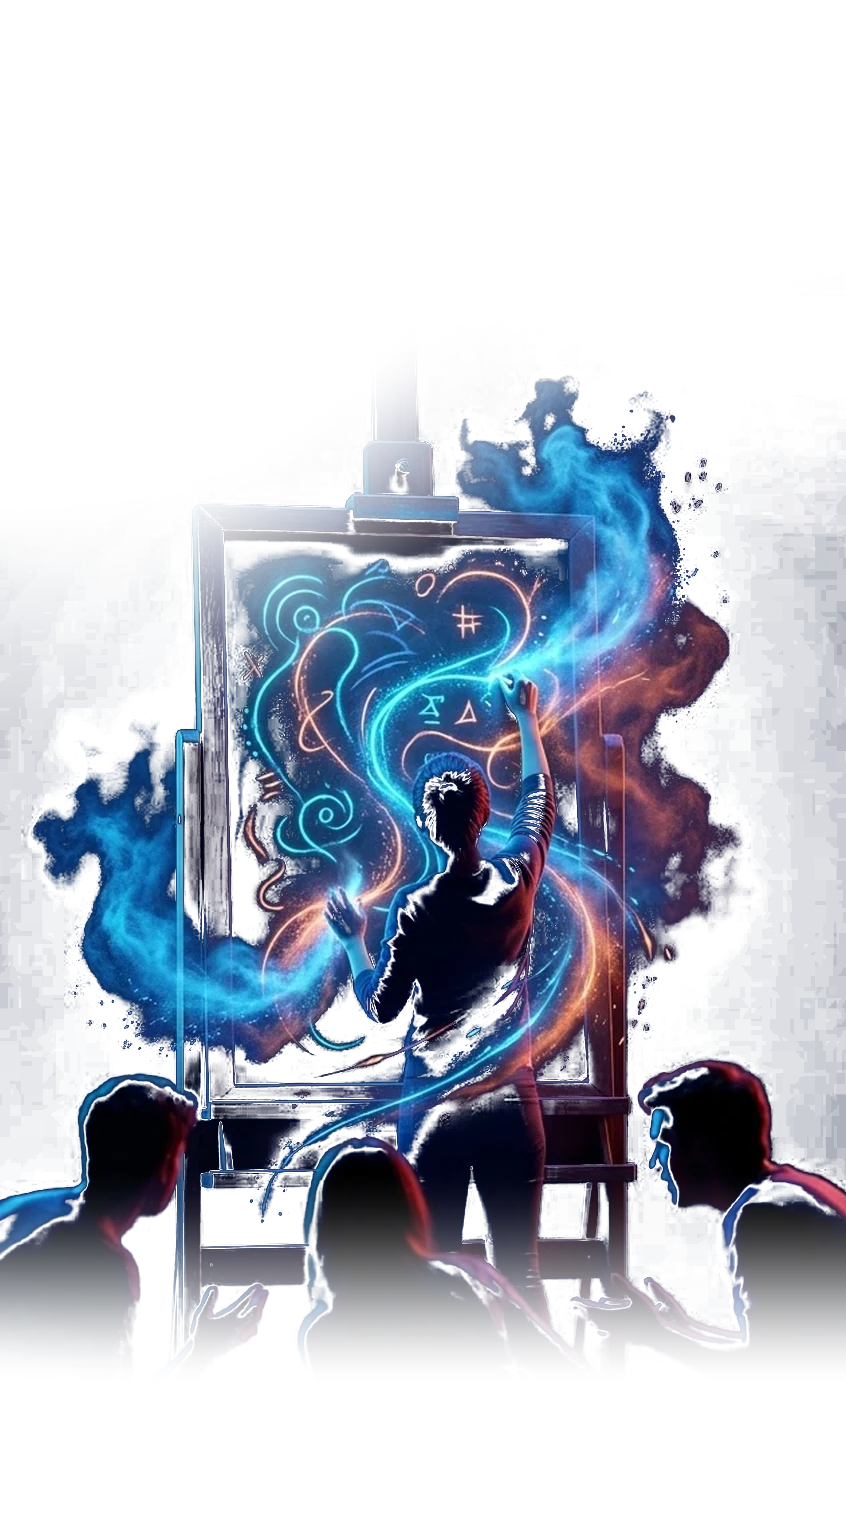
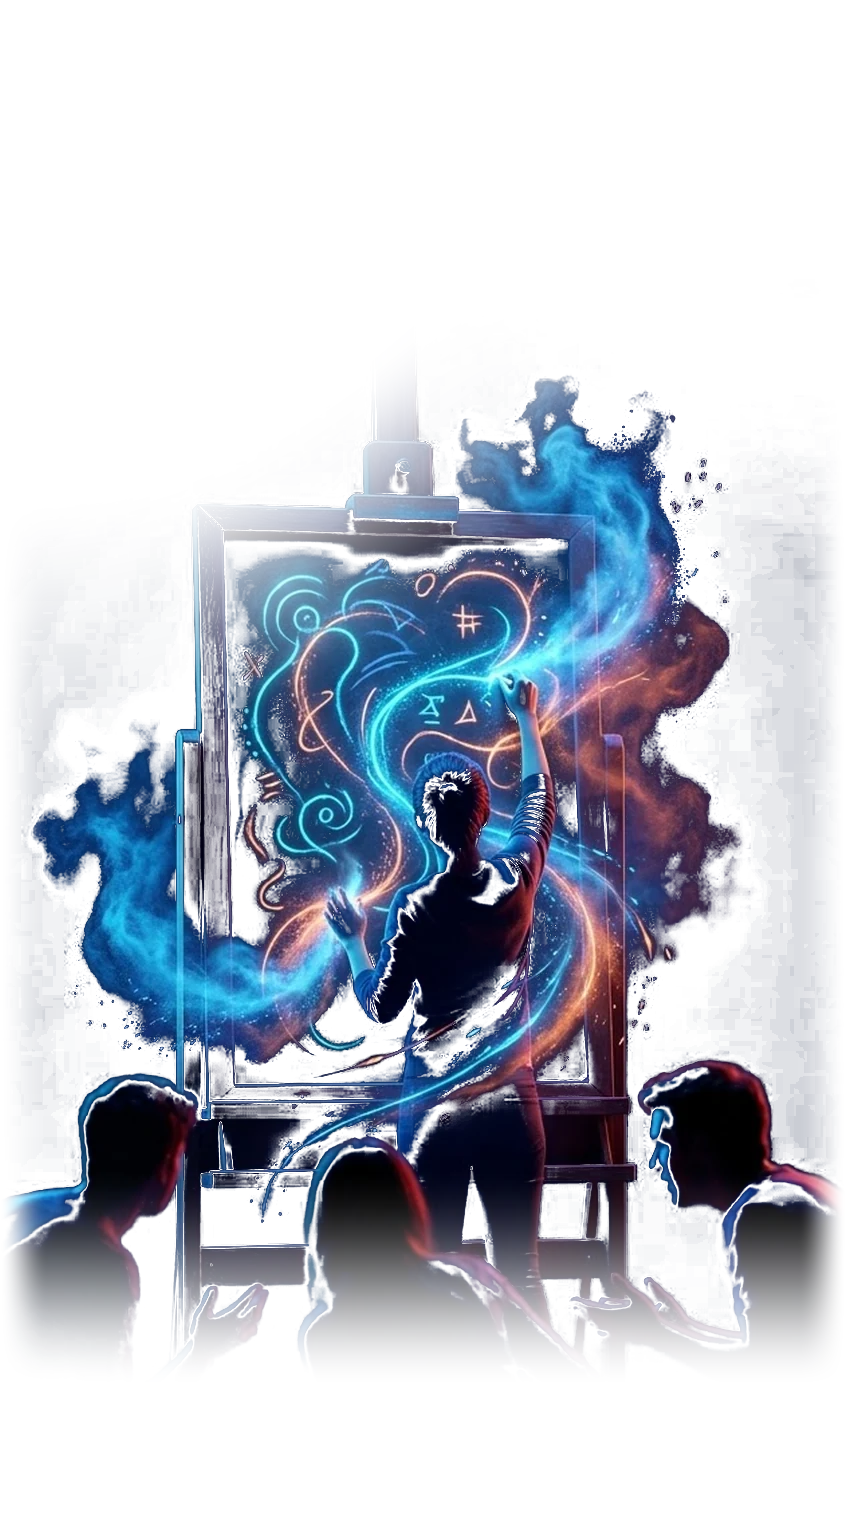
Games page: planet arc removed, clearer swipe dots in its place, game counter back above the title in cyan, art fades at the screen sides
Claude-Session: https://claude.ai/code/session_01M4sLZWacZ2VAGJ6zF5AGeE

Changed region(s): [[0.9527, 0.3084, 1.0, 0.8944], [0.0, 0.4009, 0.0307, 0.6785], [0.0, 0.771, 0.0615, 0.8944]]

diff --git a/src/features/games/GamesScreen.tsx b/src/features/games/GamesScreen.tsx
@@ -1,16 +1,13 @@
 import { useCallback, useState } from 'react';
-import { Platform, StyleSheet, View } from 'react-native';
+import { StyleSheet, View } from 'react-native';
 import { Gesture, GestureDetector } from 'react-native-gesture-handler';
 import { cancelAnimation, Easing, useSharedValue, withTiming } from 'react-native-reanimated';
 import { scheduleOnRN } from 'react-native-worklets';
-import { useSafeAreaInsets } from 'react-native-safe-area-context';
 
-import { HEADER_H } from '@/components/Header';
 import { Screen } from '@/components/Screen';
 import { GAMES } from '@/data/games';
 import { GamePage } from './GamePage';
-import { Dots, Ring } from './Ring';
-import { Planet, wrapOff } from './Planet';
+import { Dots, wrapOff } from './Dots';
 import { ChestButton } from '@/features/chests/ChestButton';
 import { RoundsButton } from '@/features/rounds/Ribbon';
 import { useTheme } from '@/state/app';
@@ -22,12 +19,9 @@ const N = GAMES.length;
 const mod = (v: number) => ((v % N) + N) % N;
 const EASE = Easing.bezier(0.3, 0.7, 0.2, 1);
 
-/** Locked Games page (decision 63): swipe through the games; the planet ring and dots follow. */
+/** Locked Games page (decision 63): swipe through the games; the dots follow. */
 export function GamesScreen() {
   const t = useTheme();
-  const ins = useSafeAreaInsets();
-  // The horizon is drawn under the header and dock (as in the prototype, where the dock covers it).
-  const bodyTop = (Platform.OS === 'web' ? u(30) : ins.top) + HEADER_H;
   const pos = useSharedValue(0); // unbounded page position; game = pos mod N
   const start = useSharedValue(0);
   const [sel, setSel] = useState(0);
@@ -70,17 +64,14 @@ export function GamesScreen() {
     });
 
   return (
-    <Screen tab="games" glow={0} under={<Ring mode={t.mode} top={bodyTop - lift} />}>
+    <Screen tab="games" glow={0}>
       <GestureDetector gesture={pan}>
         <View style={s.fill} onLayout={(e) => setLift(Math.round(u(FILL_H) - e.nativeEvent.layout.height))}>
           {/* the shown game and two on each side are mounted, so the next page's art is already decoded when a swipe
               lands (2026-10-19, was one each side: building it as the slide ended froze the page) */}
           {GAMES.map((g, j) => (Math.abs(wrapOff(j - sel)) <= 2 ? <GamePage key={g.key} game={g} j={j} pos={pos} active={j === sel} lift={lift} /> : null))}
           <View style={[StyleSheet.absoluteFill, { transform: [{ translateY: -lift }] }]} pointerEvents="box-none">
-            <Dots pos={pos} onPick={jump} />
-            {GAMES.map((g, j) => (
-              <Planet key={g.key} k={g.key} j={j} pos={pos} sel={sel} mode={t.mode} onPress={() => jump(j)} />
-            ))}
+            <Dots pos={pos} onPick={jump} accent={t.accent} />
           </View>
           <ChestButton />
           <RoundsButton />

diff --git a/src/features/games/GamePage.tsx b/src/features/games/GamePage.tsx
@@ -4,7 +4,7 @@ import { Pressable, StyleSheet, View } from 'react-native';
 import { Text } from '@/components/AppText';
 import Animated, { type SharedValue, useAnimatedStyle } from 'react-native-reanimated';
 
-import type { Game } from '@/data/games';
+import { type Game, GAMES } from '@/data/games';
 import { useLoading } from '@/features/loading/store';
 import { useTheme } from '@/state/app';
 import { u } from '@/theme/scale';
@@ -13,7 +13,7 @@ import { sfx } from '@/lib/sound';
 
 import { W } from './fit';
 import { GameArt } from './GameArt';
-import { wrapOff } from './Planet';
+import { wrapOff } from './Dots';
 
 const DESC = { dark: '#c9cde8' };
 /** Cards whose art reaches up beside the text get a narrower description. */
@@ -37,6 +37,7 @@ export function GamePage({ game, j, pos, active, lift }: { game: Game; j: number
     <Animated.View style={[StyleSheet.absoluteFill, slide]} pointerEvents={active ? 'box-none' : 'none'} accessibilityElementsHidden={!active} importantForAccessibility={active ? 'auto' : 'no-hide-descendants'}>
       <GameArt k={game.key} mode={t.mode} lift={lift} />
       <View style={s.info}>
+        <Text style={[s.kick, { color: t.accent }]}>{`${String(j + 1).padStart(2, '0')} / ${String(GAMES.length).padStart(2, '0')}`}</Text>
         <Text style={[s.ttl, { color: t.white }]}>
           {game.lead} <Text style={{ color: t.accent, fontFamily: F.displayItalic }}>{game.em}</Text>
         </Text>
@@ -56,8 +57,10 @@ export function GamePage({ game, j, pos, active, lift }: { game: Game; j: number
 }
 
 const s = StyleSheet.create({
-  info: { position: 'absolute', left: u(16), right: u(16), top: u(36) },
+  info: { position: 'absolute', left: u(16), right: u(16), top: u(22) },
   // the title wraps before the Grand Rounds and chest buttons on the right (2026-10-19)
+  // the game counter is back above the title, in the title's cyan (2026-10-19)
+  kick: { marginBottom: u(6), fontFamily: F.display, fontSize: u(11), lineHeight: u(13), letterSpacing: u(1.2) },
   ttl: { maxWidth: u(W - 32 - 35), fontFamily: F.display, fontSize: u(32), lineHeight: u(28.8), letterSpacing: u(-0.64) },
   sub: { marginTop: u(8), fontFamily: F.displayItalic, fontSize: u(13), lineHeight: u(17) },
   desc: { marginTop: u(7), marginBottom: u(2), maxWidth: u(190), fontFamily: F.body, fontSize: u(11), lineHeight: u(15.95) },

diff --git a/src/features/games/Dots.tsx b/src/features/games/Dots.tsx
@@ -1,0 +1,44 @@
+import { Pressable, StyleSheet, View } from 'react-native';
+import Animated, { type SharedValue, useAnimatedStyle } from 'react-native-reanimated';
+
+import { GAMES } from '@/data/games';
+import { u } from '@/theme/scale';
+
+import { DOTS_Y } from './fit';
+
+const N = GAMES.length;
+const HALF = N / 2;
+
+/** Wrap a page offset into [-N/2, N/2), so the games loop round. */
+export function wrapOff(v: number) {
+  'worklet';
+  return ((((v + HALF) % N) + N) % N) - HALF;
+}
+
+function Dot({ j, pos, onPick, accent }: { j: number; pos: SharedValue<number>; onPick: (j: number) => void; accent: string }) {
+  const a = useAnimatedStyle(() => {
+    const on = Math.max(0, 1 - Math.abs(wrapOff(j - pos.value)));
+    return { width: u(5 + 13 * on), backgroundColor: on > 0.5 ? accent : `rgba(255,255,255,${0.6 + 0.4 * on})` };
+  });
+  return (
+    <Pressable onPress={() => onPick(j)} hitSlop={{ top: u(8), bottom: u(8), left: u(2), right: u(2) }} accessibilityRole="button" accessibilityLabel={`Game ${j + 1}`}>
+      <Animated.View style={[s.dot, a]} />
+    </Pressable>
+  );
+}
+
+/** One swipe dot per game, where the planet arc used to be (2026-10-19); the shown game is a longer cyan pill. */
+export function Dots({ pos, onPick, accent }: { pos: SharedValue<number>; onPick: (j: number) => void; accent: string }) {
+  return (
+    <View style={s.dots} pointerEvents="box-none">
+      {Array.from({ length: N }, (_, j) => (
+        <Dot key={j} j={j} pos={pos} onPick={onPick} accent={accent} />
+      ))}
+    </View>
+  );
+}
+
+const s = StyleSheet.create({
+  dots: { position: 'absolute', left: 0, right: 0, top: u(DOTS_Y - 2.5), height: u(5), flexDirection: 'row', justifyContent: 'center', alignItems: 'center', gap: u(5) },
+  dot: { height: u(5), borderRadius: u(5) },
+});

diff --git a/src/features/games/fit.ts b/src/features/games/fit.ts
@@ -17,9 +17,8 @@ export const ART_END = 580; // 2026-10-18: art runs on under the arc to the dock
 export const FILL_H = 615 - BODY_TOP - 54;
 const DROP = ART_END - ART_B;
 const ART_T = 150;
-export const RING_R = 520;
-export const RING_CY = 908 + SHIFT + ARC_DROP; // circle centre, body coords
-export const RING_CX = W / 2;
+// 2026-10-19: the planet ring is gone (Yazan); the swipe dots sit where the chosen planet's centre was, in body coords.
+export const DOTS_Y = 908 + SHIFT + ARC_DROP - 520 - 2;
 
 type Box = [number, number, number, number];
 const BB: Record<string, Box> = {
@@ -42,11 +41,3 @@ export function fitArt(key: string): ArtFit {
   const ITd = B - (d[3] * sd) / AR_D;
   return { x: ILd, y: ITd + DROP, w: sd, h: sd / AR_D };
 }
-
-/** Ring slots by offset from the selected game: angle (deg) and diameter, as in the prototype. */
-// Offsets -5..5 so 10 games wrap; only -3..3 are visible, exactly as with 8.
-export const SLOT_OFF = [-5, -4, -3, -2, -1, 0, 1, 2, 3, 4, 5];
-export const SLOT_ANGLE = [-44, -35, -26, -17, -8, 0, 8, 17, 26, 35, 44];
-// 2026-10-18: planets 25% smaller (Yazan)
-export const SLOT_SIZE = [17, 17, 17, 22, 26, 36, 26, 22, 17, 17, 17];
-export const SLOT_OPACITY = [0, 0, 0.75, 1, 1, 1, 1, 1, 0.75, 0, 0];

diff --git a/scripts/bake-game-art-full.py b/scripts/bake-game-art-full.py
@@ -7,7 +7,8 @@ It is laid over the 282 x 615 design screen like CSS cover (nudged right), cut t
   - a big curve clears the upper left so the title stays readable, and the scene's upper left
     tucks under the text's lower right (decision: "tucked, bigger"),
   - the art is gone before the planets on the arc, so a gap stays between them,
-  - wherever the picture is just its own navy sky it turns clear, so no box edge shows.
+  - wherever the picture is just its own navy sky it turns clear, so no box edge shows,
+  - the left and right screen edges fade softly (2026-10-19).
 Run: python3 scripts/bake-game-art-full.py   (needs Pillow, numpy)
 """
 import os
@@ -18,7 +19,7 @@ ROOT = os.path.dirname(os.path.dirname(os.path.abspath(__file__)))
 W, SH, TOP, END = 282, 615, 72, 580  # design screen, body top, art end (src/features/games/fit.ts)
 SCALE = 3
 NUDGE = 0.7  # 0 = keep the left edge, 1 = keep the right edge, when the picture is wider than the screen
-PLANET_Y = 524  # screen y of the middle planet's centre on the arc (fit.ts: BODY_TOP + RING_CY - RING_R - 2)
+PLANET_Y = 524  # screen y of the swipe dots, where the middle planet sat before the arc was removed (fit.ts: BODY_TOP + DOTS_Y)
 TEXT_DROP = 14  # the title block sits this much lower than when the curve was tuned (2026-10-18)
 CLEAR = 580  # screen y where the window ends; it sits under the dock
 
@@ -71,7 +72,9 @@ for k, (a, b, c, d) in BAND.items():
     # the picture's own navy sky melts away, so no tinted box is left where it meets the app navy
     sky = np.median(np.asarray(src)[:20].reshape(-1, 3), axis=0) / 255
     key = smooth(np.linalg.norm(rgb - sky, axis=2), 0.04, 0.17)
-    alpha = band * curve * nav * key
+    # 2026-10-19 (Yazan): a soft fade at the screen's left and right edges, so no hard edge shows beside the next page
+    sides = smooth(X, 0, 16) * (1 - smooth(X, W - 16, W))
+    alpha = band * curve * nav * key * sides
     img = Image.fromarray(np.round(np.dstack([rgb, alpha]) * 255).astype(np.uint8), 'RGBA')
     dst = os.path.join(ROOT, 'assets/games/baked/dark', f'{k}.webp')
     img.save(dst, 'WEBP', quality=88, method=6)
